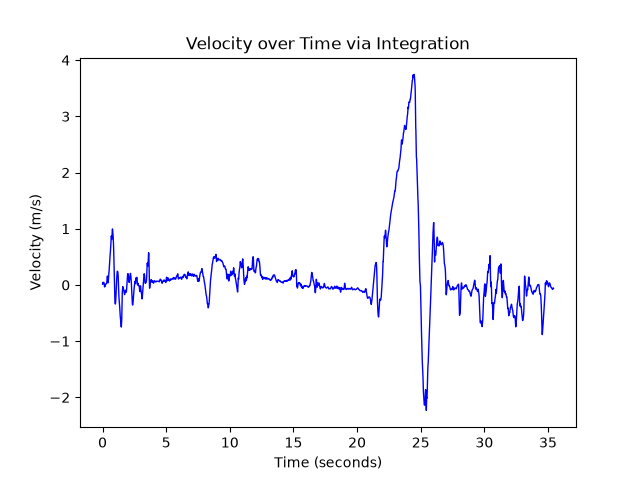
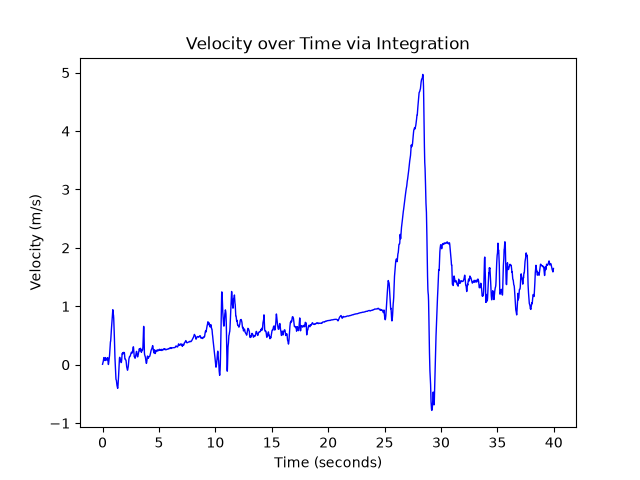
Fix stale data and regenerate all graphs

diff --git a/src/main.py b/src/main.py
@@ -9,7 +9,6 @@ RUN = 5
 
 PATH = "/Users/alexanderyang/Documents/Main Directory/Programming/physics-depth-study-velocity-derivation/"
 ACCEL = pd.read_csv(PATH + "data/Obj-" + OBJECT + "-Runs/" + str(RUN) + "/Accelerometer.csv", index_col='time')
-ORIENT = pd.read_csv(PATH + "data/Obj-" + OBJECT + "-Runs/" + str(RUN) + "/Orientation.csv", index_col='time')
 
 
 def rotate(vec: np.ndarray, quat: np.ndarray) -> np.ndarray:
@@ -59,4 +58,6 @@ if __name__ == '__main__':
         OBJECT = i
         for j in [1, 2, 3, 4, 5]:
             RUN = j
+            ACCEL = pd.read_csv(PATH + "data/Obj-" + OBJECT + "-Runs/" + str(RUN) + "/Accelerometer.csv", index_col='time')
+            ORIENT = pd.read_csv(PATH + "data/Obj-" + OBJECT + "-Runs/" + str(RUN) + "/Orientation.csv", index_col='time')
             graph()
